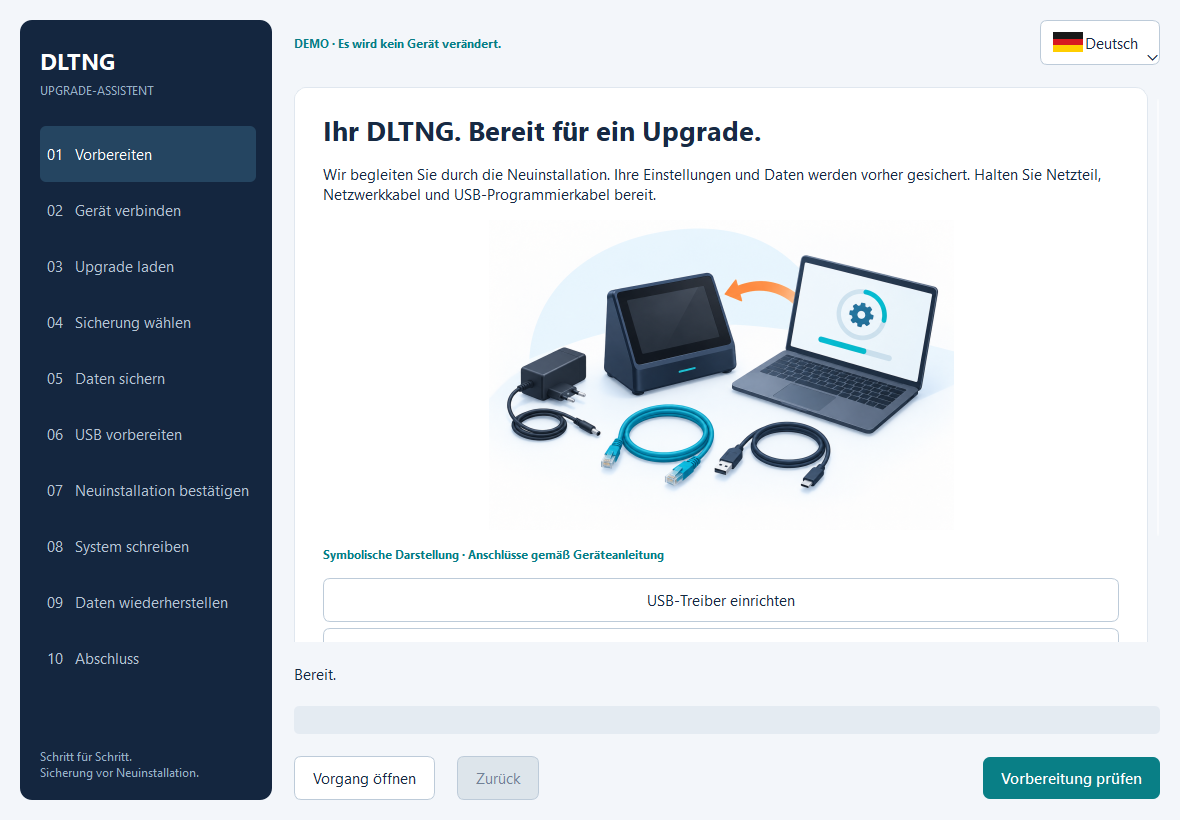
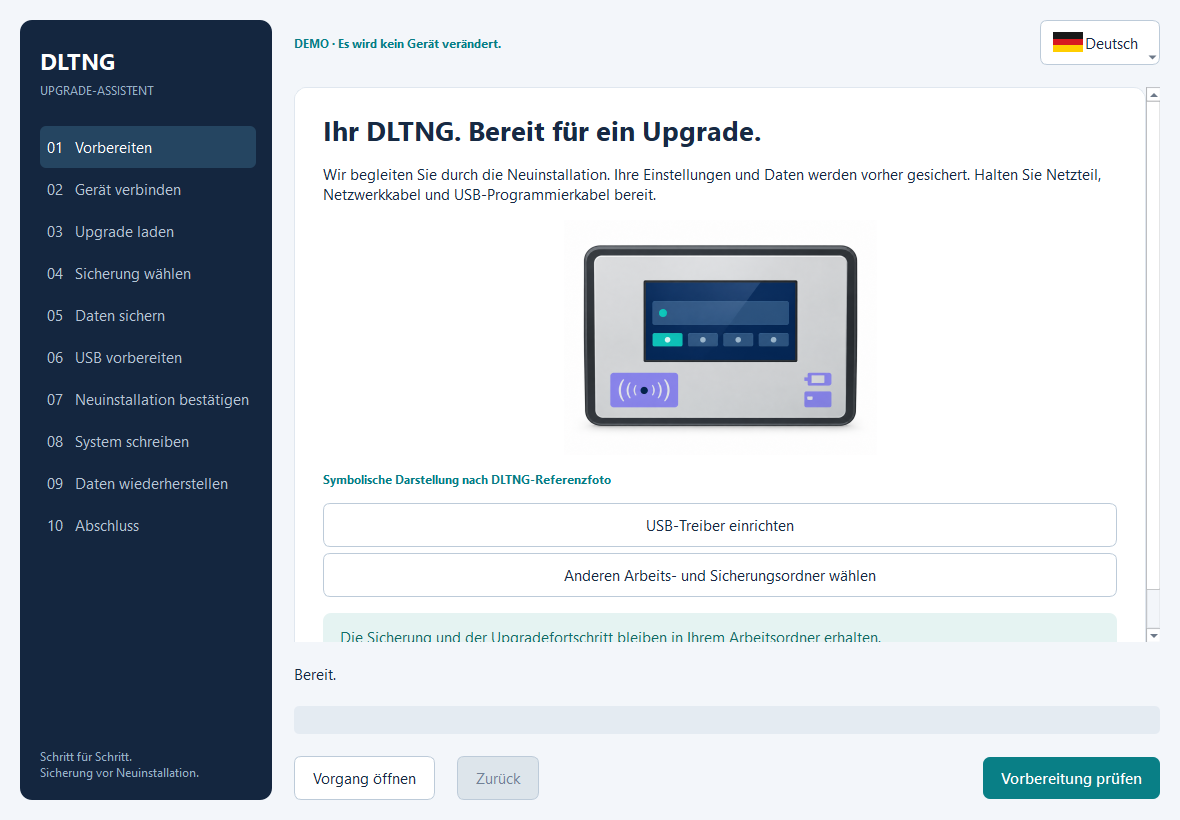
docs: show pilot 0.2.4 with the actual DLTNG illustration

diff --git a/docs/de/guide.md b/docs/de/guide.md
@@ -18,6 +18,8 @@ Oben rechts auf die **Landesflagge mit Sprachname** klicken und **Deutsch** oder
 
 ![Sprachwahl und Startseite](assets/ui-de.png)
 
+*Abbildung: Demomodus der Testausgabe 0.2.4.*
+
 ## 1 · Vorbereiten
 
 `DLTNG-Upgrade.exe` starten. Bei Bedarf den Arbeits- und Sicherungsordner wählen und **„USB-Treiber einrichten“** verwenden. **„Vorbereitung prüfen“** kontrolliert die PC-Voraussetzungen. Zum gefahrlosen Kennenlernen **„Demo ausprobieren“** wählen.

diff --git a/docs/en/guide.md b/docs/en/guide.md
@@ -18,6 +18,8 @@ Click the **country flag and language name** at the top right and select **Deuts
 
 ![Language selection and start page](assets/ui-en.png)
 
+*Screenshot: test build 0.2.4 in demo mode.*
+
 ## 1 · Prepare
 
 Start `DLTNG-Upgrade.exe`. Choose the work and backup folder if needed and use **“Set up USB driver”** when required. **“Check preparation”** checks the PC prerequisites. Select **“Try the demo”** to explore the workflow without changing a device.

diff --git a/docs/de/index.md b/docs/de/index.md
@@ -8,6 +8,8 @@ Sichern, neu installieren, wiederherstellen – mit einem verständlichen Assist
 
 ![DLTNG Upgrade auf Deutsch](assets/ui-de.png)
 
+*Abbildung: Demomodus der Testausgabe 0.2.4.*
+
 ## Was macht DLTNG Upgrade?
 
 DLTNG Upgrade führt durch die vollständige Neuinstallation eines CM4-DLTNG. Vor dem Überschreiben werden Einstellungen, Nutzdateien und Datenbanken gesichert. Anschließend übernimmt der Assistent die Daten in das neue System und prüft das Ergebnis.

diff --git a/docs/en/index.md b/docs/en/index.md
@@ -8,6 +8,8 @@ Back up, reinstall, restore — with a clear Windows wizard.
 
 ![DLTNG Upgrade in English](assets/ui-en.png)
 
+*Screenshot: test build 0.2.4 in demo mode.*
+
 ## What does DLTNG Upgrade do?
 
 DLTNG Upgrade guides you through reinstalling a CM4 DLTNG. Settings, data files and databases are backed up before the device is overwritten. The wizard then restores the data into the new system and checks the result.
